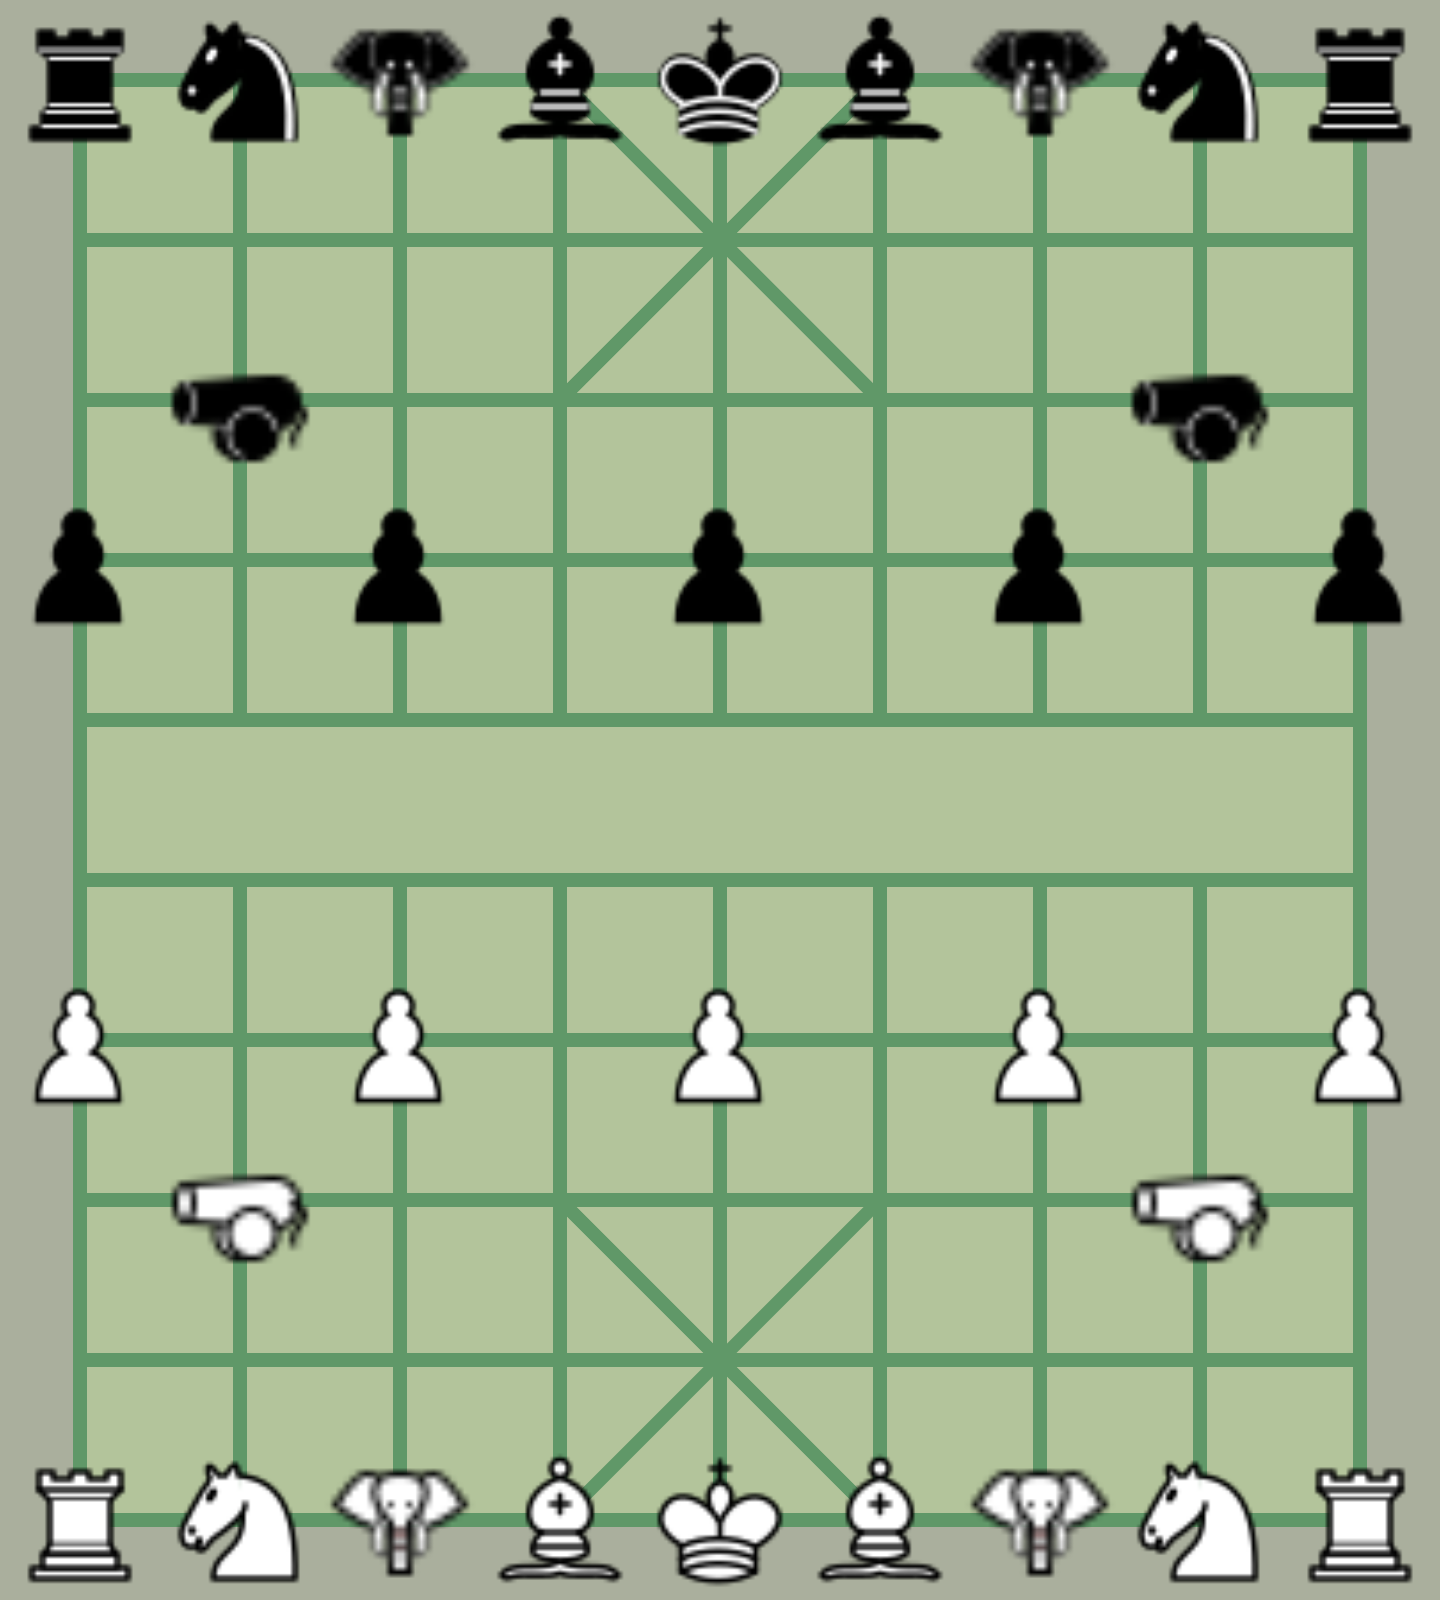
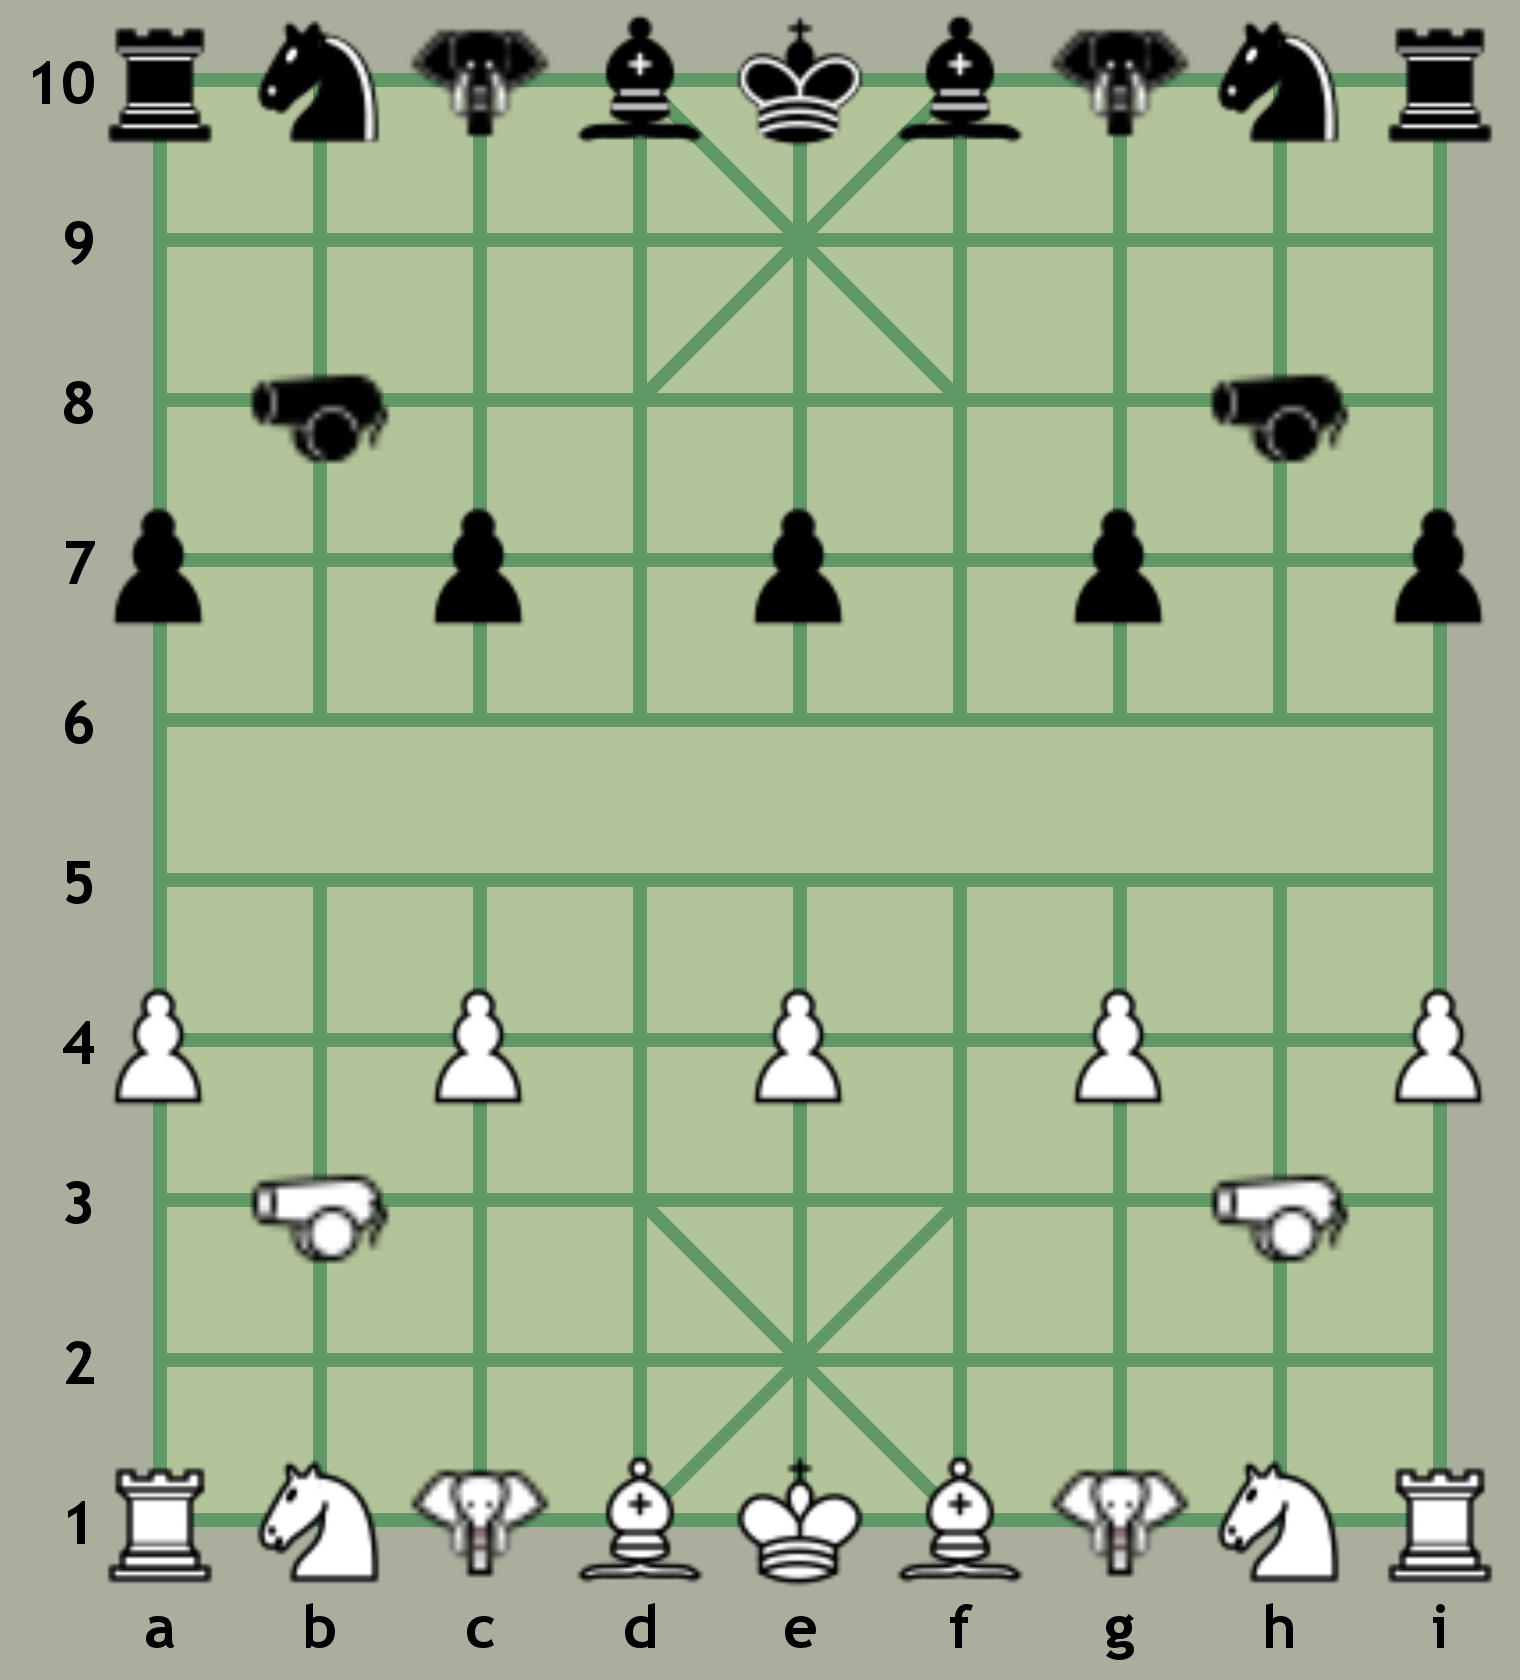
added arrows and coords

diff --git a/Discord Bots [Untokened]/Chess+/index.js b/Discord Bots [Untokened]/Chess+/index.js
@@ -16,7 +16,7 @@ const commandPrefix = ['!', '/', '`', '.', ','];
 const whitelistedChannels = ['no lol'];
 //                          []
 const adminList = ['318005585951850517'];
-//                [CCheukKa]
+//                [            CCheukKa]
 //
 
 //Canvas
@@ -24,13 +24,13 @@ const canvas = createCanvas(100,100);
 const ctx = canvas.getContext('2d');
 //
 const tileSize = 160;
-const width = tileSize * 9;
-const height = tileSize * 10;
+const width = tileSize * 9.5;
+const height = tileSize * 10.5;
 //
-const palette = ['#AAAF9D', '#B3C49B', '#609868'];
-//              [ outboard,   inboard,      line]
-const drawCoord = false;
+const palette = ['#AAAF9D', '#B3C49B', '#609868', '#EE363D'];
+//              [ outboard,   inboard,      line, last move]
 //
+var lastMove = [];
 canvas.width = width;
 canvas.height = height;
 const boardInit = [
@@ -45,7 +45,7 @@ const boardInit = [
     [ 0, 0, 0, 0, 0, 0, 0, 0, 0],
     [ 6, 5, 2, 3, 7, 3, 2, 5, 6]
 ];
-var board = boardInit;
+var board = JSON.parse(JSON.stringify(boardInit));
 //
 
 //Load images
@@ -83,7 +83,7 @@ var wCannon, wElephant, wHorse, wKing, wPawn, wRook, wServant;
 */
 
 //
-const adminCommands = ['reset', 'forcemove', 'add'];
+const adminCommands = ['reset', 'forcemove', 'add', 'printstate', 'enforcestate'];//lowercase
 
 bot.on('message', message => {
     if (message.member.id == bot.user.id) { return };
@@ -91,12 +91,16 @@ bot.on('message', message => {
     let content = message.content.toString();
     if (!commandPrefix.includes(content.substring(0, 1))) { return };
     let args = content.substring(1).split(' ');
+    args[0] = args[0].toLowerCase();
     //regular
     switch (args[0]) {
-        case 'channelID':
+        case 'help':
+            message.channel.send("My prefix is `! / . , *``\nHere is my list of commands:\n`help`: This\n`adminHelp`: A list of admin commands\n`myID`: See your user ID\n`channelID`: See the channel's ID\n`board`: See the current board state\n`move <coord1> <coord2>`: Move a piece from `<coord1>` to `<coord2>`");
+            break;
+        case 'channelid':
             message.channel.send('Channel ID for "' + message.channel.name + '" is:\n' + message.channel.id);
             break;
-        case 'myID':
+        case 'myid':
             message.reply('your user ID is:\n' + message.member.id);
             break;
         case 'board':
@@ -120,7 +124,8 @@ bot.on('message', message => {
     //admin
     switch (args[0]) {
         case 'reset':
-            board = boardInit;
+            board = JSON.parse(JSON.stringify(boardInit));
+            lastMove = [];
             redraw();
             sendBoard(message.channel);
             break;
@@ -134,6 +139,16 @@ bot.on('message', message => {
             if (errorMessage) { message.reply(errorMessage) };
             sendBoard(message.channel);
             break;
+        case 'printstate':
+            message.channel.send(JSON.stringify(board));
+            break;
+        case 'enforcestate':
+            board = JSON.parse(args[1]);
+            lastMove = [];
+            redraw();
+            sendBoard(message.channel);
+            message.reply('board state enforced');
+            break;
         default:
             break;
     }
@@ -146,7 +161,7 @@ bot.on('message', message => {
 //===================================================================
 function sendBoard(channel) {
     let buffer = canvas.toBuffer('image/png');
-    fs.writeFileSync('./test.png', buffer);
+    //fs.writeFileSync('./test.png', buffer);
     const attachment = new Discord.MessageAttachment(buffer);
     channel.send(attachment);
     return;
@@ -198,7 +213,7 @@ function executeMove(home, goal) {
             errorMessage += '\nInvalid column: ' + home.substring(0, 1);
             break;
     }
-    if (!isWithinInclusiveRange(yHome, 1, 10)) {
+    if (!isWithinInclusiveRange(yHome, 0, 9)) {
         errorMessage += '\nInvalid row: ' + yHome;
     }
     switch (goal.substring(0, 1)) {
@@ -224,19 +239,19 @@ function executeMove(home, goal) {
             errorMessage += '\nInvalid column: ' + goal.substring(0, 1);
             break;
     }
-    if (!isWithinInclusiveRange(yGoal, 1, 10)) {
+    if (!isWithinInclusiveRange(yGoal, 0, 9)) {
         errorMessage += '\nInvalid row: ' + yGoal;
     }
     if (errorMessage) { return errorMessage };
     //
     //logicCheck
-    let logicError = logicCheck(xHome, 10 - yHome, xGoal, 10 - yGoal);
+    let logicError = logicCheck(xHome, 9 - yHome, xGoal, 9 - yGoal);
     if (logicError) { return logicError };
     //executeMove
-    console.log(board[yGoal][xGoal]);
-    console.log(board[yHome][xHome]);
-    board[10 - yGoal][xGoal] = board[10 - yHome][xHome];
-    board[10 - yHome][xHome] = 0;
+    board[9 - yGoal][xGoal] = board[9 - yHome][xHome];
+    board[9 - yHome][xHome] = 0;
+    //logLastMove
+    lastMove = [xHome, 9 - yHome, xGoal, 9 - yGoal];
     redraw();
     return;
 }
@@ -270,7 +285,7 @@ function forceMove(home, goal) {
             errorMessage += '\nInvalid column: ' + home.substring(0, 1);
             break;
     }
-    if (!isWithinInclusiveRange(yHome, 1, 10)) {
+    if (!isWithinInclusiveRange(yHome, 0, 9)) {
         errorMessage += '\nInvalid row: ' + yHome;
     }
     switch (goal.substring(0, 1)) {
@@ -296,7 +311,7 @@ function forceMove(home, goal) {
             errorMessage += '\nInvalid column: ' + goal.substring(0, 1);
             break;
     }
-    if (!isWithinInclusiveRange(yGoal, 1, 10)) {
+    if (!isWithinInclusiveRange(yGoal, 0, 9)) {
         errorMessage += '\nInvalid row: ' + yGoal;
     }
     if (errorMessage) { return errorMessage };
@@ -304,8 +319,8 @@ function forceMove(home, goal) {
     //executeMove
     console.log(board[yGoal][xGoal]);
     console.log(board[yHome][xHome]);
-    board[10 - yGoal][xGoal] = board[10 - yHome][xHome];
-    board[10 - yHome][xHome] = 0;
+    board[9 - yGoal][xGoal] = board[9 - yHome][xHome];
+    board[9 - yHome][xHome] = 0;
     redraw();
     return;
 }
@@ -502,28 +517,33 @@ function logicCheck(xHome, yHome, xGoal, yGoal) {
 //===================================================================
 function redraw() {
     drawBoard();
-    drawPiece();
-    if (drawCoord) { drawCoords(); }
+    drawLastMove();
+    drawPieces();
+    drawCoords();
+    return;
+}
+function drawLastMove() {
+    drawLine((lastMove[0] + 1) * tileSize, (lastMove[1] + 0.5) * tileSize, (lastMove[2] + 1) * tileSize, (lastMove[3] + 0.5) * tileSize, palette[3]);
     return;
 }
 function drawBoard() {
     drawRect(0, 0, width, height, palette[0]);
-    drawRect(0.5 * tileSize, 0.5 * tileSize, 8 * tileSize, 9 * tileSize, palette[1]);
+    drawRect(1 * tileSize, 0.5 * tileSize, 8 * tileSize, 9 * tileSize, palette[1]);
     for (let i = 0; i < 9; i++) {
-        drawLine((i + 0.5) * tileSize, tileSize / 2, (i + 0.5) * tileSize, 4.5 * tileSize, palette[2]);
+        drawLine((i + 1) * tileSize, tileSize / 2, (i + 1) * tileSize, 4.5 * tileSize, palette[2]);
     }
     for (let i = 0; i < 9; i++) {
-        drawLine((i + 0.5) * tileSize, 5.5 * tileSize, (i + 0.5) * tileSize, 9.5 * tileSize, palette[2]);
+        drawLine((i + 1) * tileSize, 5.5 * tileSize, (i + 1) * tileSize, 9.5 * tileSize, palette[2]);
     }
     for (let i = 0; i < 10; i++) {
-        drawLine(tileSize / 2, (i + 0.5) * tileSize, 8.5 * tileSize, (i + 0.5) * tileSize, palette[2]);
+        drawLine(tileSize, (i + 0.5) * tileSize, 9 * tileSize, (i + 0.5) * tileSize, palette[2]);
     }
-    drawLine(tileSize / 2, tileSize / 2, tileSize / 2, 9.5 * tileSize);
-    drawLine(8.5 * tileSize, tileSize / 2, 8.5 * tileSize, 9.5 * tileSize);
-    drawLine(3.5 * tileSize, 0.5 * tileSize, 5.5 * tileSize, 2.5 * tileSize);
-    drawLine(3.5 * tileSize, 2.5 * tileSize, 5.5 * tileSize, 0.5 * tileSize);
-    drawLine(3.5 * tileSize, 7.5 * tileSize, 5.5 * tileSize, 9.5 * tileSize);
-    drawLine(3.5 * tileSize, 9.5 * tileSize, 5.5 * tileSize, 7.5 * tileSize);
+    drawLine(tileSize, tileSize / 2, tileSize, 9.5 * tileSize);
+    drawLine(9 * tileSize, tileSize / 2, 9 * tileSize, 9.5 * tileSize);
+    drawLine(4 * tileSize, 0.5 * tileSize, 6 * tileSize, 2.5 * tileSize);
+    drawLine(4 * tileSize, 2.5 * tileSize, 6 * tileSize, 0.5 * tileSize);
+    drawLine(4 * tileSize, 7.5 * tileSize, 6 * tileSize, 9.5 * tileSize);
+    drawLine(4 * tileSize, 9.5 * tileSize, 6 * tileSize, 7.5 * tileSize);
     return;
 }
 function drawRect(x1, y1, dx, dy, colour) {
@@ -532,13 +552,17 @@ function drawRect(x1, y1, dx, dy, colour) {
         return;
 }
 function drawLine(x1, y1, x2, y2, colour) {
+    ctx.closePath();
+    ctx.beginPath();
     ctx.moveTo(x1, y1);
     ctx.lineTo(x2, y2);
     ctx.lineWidth = tileSize / 12;
     ctx.strokeStyle = colour;
     ctx.stroke();
+    ctx.closePath();
+    return;
 }
-function drawPiece() {
+function drawPieces() {
     var piece;
     var noDraw = false;
     for (let i = 0; i < 10; i++) {
@@ -560,19 +584,37 @@ function drawPiece() {
                 case -7: { piece = bKing; break; }
                 default: { noDraw = true; break; }
             }
-            if (!noDraw) { ctx.drawImage(piece, j * tileSize, i * tileSize, tileSize, tileSize) };
+            if (!noDraw) { ctx.drawImage(piece, (j + 0.5) * tileSize, i * tileSize, tileSize, tileSize) };
             noDraw = false;
         }
     }
 }
 function drawCoords() {
+    let coordText = ['a', 'b', 'c', 'd', 'e', 'f', 'g', 'h', 'i'];
     for (let i = 1; i <= 10; i++) {
-        drawText(i, tileSize / 10, (i - 0.35) * tileSize, 'white');
+        drawText(10 - i, 0.6 * tileSize, (i - 0.35) * tileSize, 'black', 2);
+        if (i == 10) { return };
+        drawText(coordText[i - 1], i * tileSize, 10.3 * tileSize, 'black', 0);
     }
+    return;
 }
-function drawText(text, x, y, colour) {
-    ctx.font = 'bold 30px sans-serif';
+function drawText(text, x, y, colour, align = 1) {
+    ctx.font = 'bold ' + tileSize / 8 * 3 + 'px Trebuchet MS';
     ctx.fillStyle = colour;
+    switch (align) {
+        case 0:
+            ctx.textAlign = 'center';
+            break;
+        case 1:
+            ctx.textAlign = 'left';
+            break;
+        case 2:
+            ctx.textAlign = 'right';
+            break;
+        default:
+            console.log('Unknown text-alignment: ' + align);
+            break;
+    }
     ctx.fillText(text, x, y);
     return;
 }
